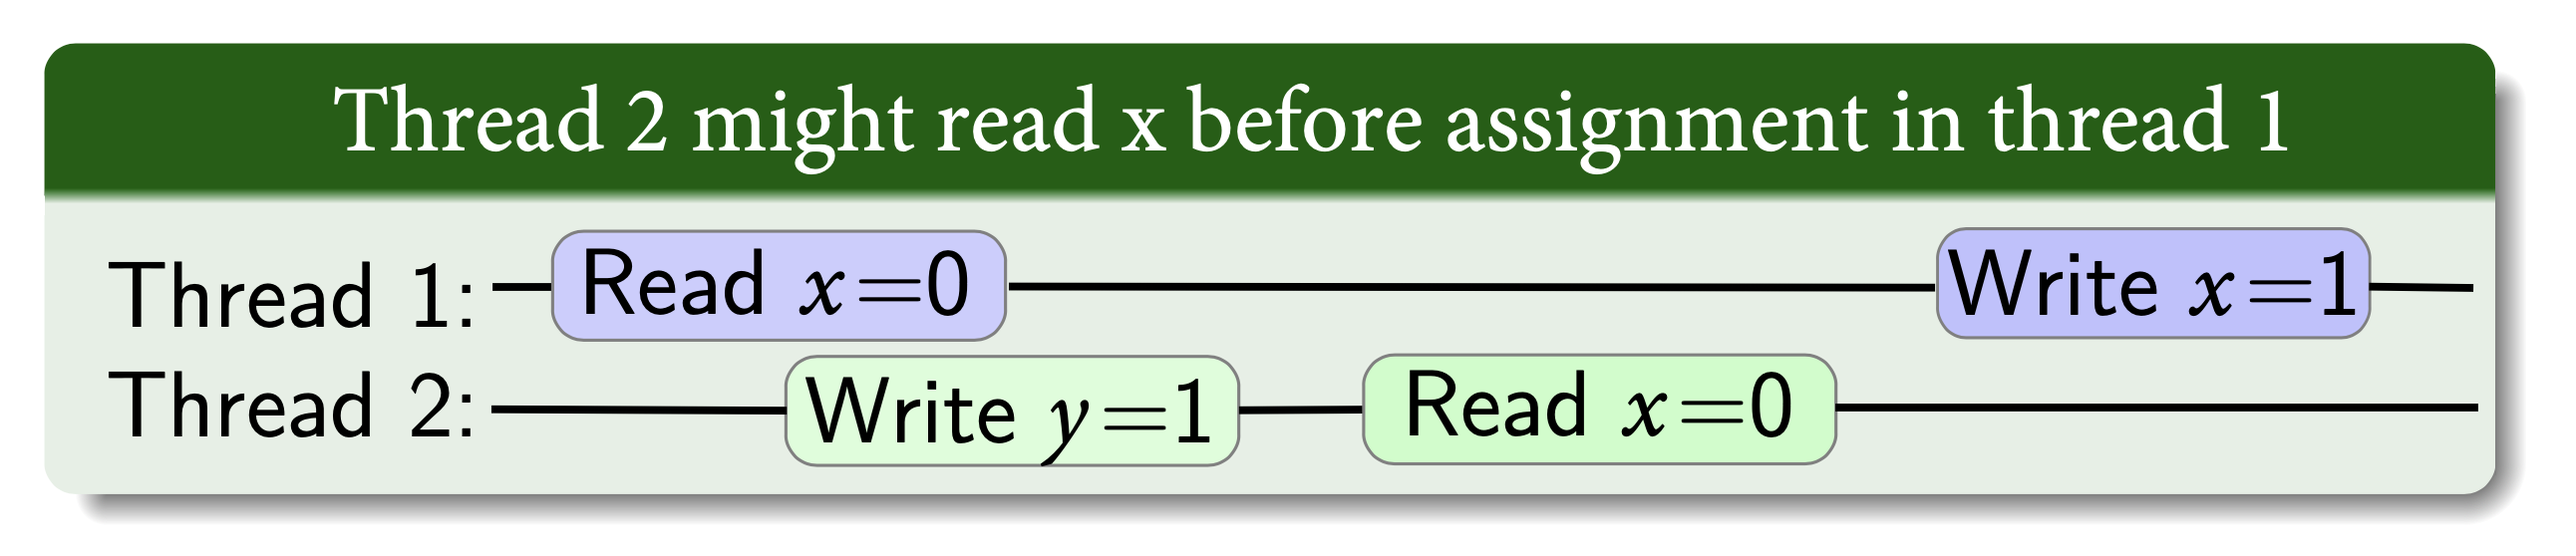
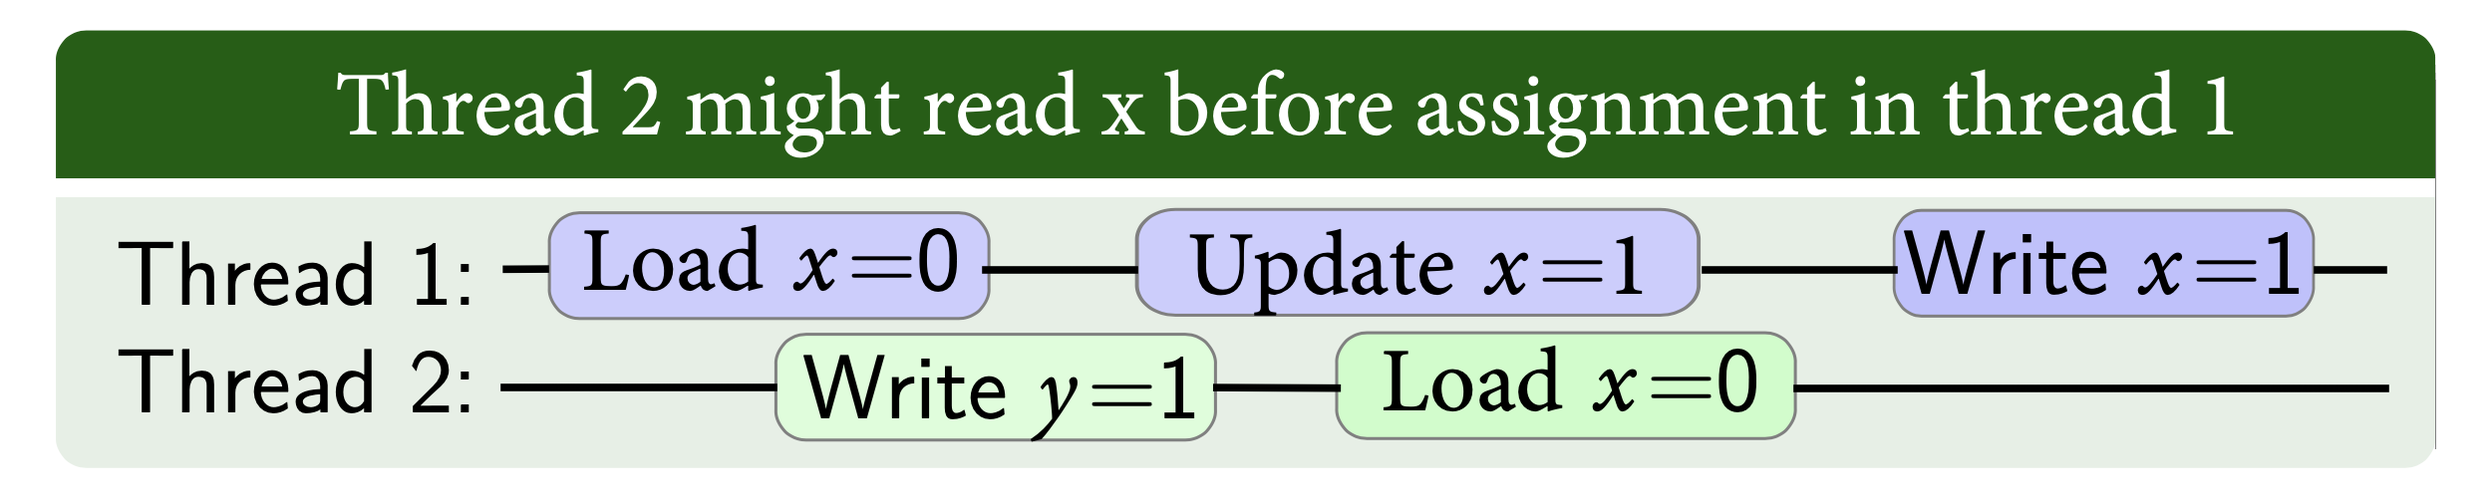
Update threads

diff --git a/Week 15/README.md b/Week 15/README.md
@@ -37,13 +37,14 @@
 		T1: x = x + 1		|  T2: y = x
 		```
 		- What is the value of `y`? If thread `T1` goes first, then `y` will be `1`, but if `T2` executes first, then `y` does not change its value.
+		- This is a race condition caused by data races.
 	- Deadlock situation: it happend when a process or thread holds a resource and waits for another resource held by another waiting process. However, the waiting process state forevers because each requested resource is used by another process.
 		- For example:
 			<p align="center">
 			  <img src="img/deadlock.png" height="70%" width="70%">
 			</p>
 		- Picture from a lecture - [Concurrent Programming](https://github.com/nyu-pl-fa18/class14/blob/master/class14.pdf).
-	- Weak memory consistency: the behaviours of accessing memory through multiple processes / threads might be inconsistent. That is, the programmers are responsible for maintaining consistency by using synchronization techniques.
+	- Weak memory consistency: the behaviours of accessing memory through multiple processes / threads might be inconsistent. The reason might be the optimization of code scheduling or delaying updates of memory.
 	- Consider this example, suppose we have two threads share variables `x` and `y`:
 	```python
 	# Suppose variable x and y are initialized to 0.
@@ -56,6 +57,7 @@
 			<p align="center">
 			  <img src="img/weak.png" height="70%" width="70%">
 			</p>
+			- The compiler might avoid updating `x` in `T1` because memory access is expensive. Although `x` could be maintained inside a register, the update of `x` may delay after `T2` loading `x` from the memory.
 - Mutual exclusion
 	- Critical region or section: a resource, memory or variable that only allows one thread to access at a time.
 	- Def. it is a situation that one process / thread enters a critical region or section and excludes all other processes / threads until that process / thread is finished.
@@ -72,7 +74,7 @@
 		- Task type
 		- A Ada task type is very close to Java `Thread` subclass.
 - Rendezvous
-	- Def. A rendezvous is a process to synchronize two tasks.
+	- Def. a rendezvous is a process to synchronize two tasks.
 	- It works by using `entry` and `accept` statements. The communication from task to task via an `entry` call.
 
 ### Example
@@ -140,7 +142,7 @@ end Main;
 ```
 
 ## Java
-
+- Thread
 ```java
 class MyThread extends Thread {
    public int element;
@@ -168,35 +170,72 @@ public class HelloWorld{
    }
 }
 ```
-
+- Prevents race condition
+- Java introduced two ways to maintain synchronization:
+	- Synchronized methods
+		- Declare a synchronized method that only allows one thread per instance execute it.
+	- For instance, consider we use multiple threads to count a result and check whether that result is a multiple of 10.
+	```java
+	class SyncCounter {
+	    private int count = 0;
+	    
+	    public synchronized void cal(){
+	       for(int i=0; i<10000; i++){
+	           count += 1;
+	        }
+	        System.out.println(this.count % 10 == 0); // Might be false if we avoid synchronizzation
+	   }
+	}
+	
+	class CounterThread extends Thread {
+	   private SyncCounter counter;
+	
+	   public CounterThread (SyncCounter counter){
+	      this.counter = counter;
+	   }
+	
+	   public void run () {
+	       counter.cal();
+	   }
+	}
+	
+	public class Main
+	{
+	     public static void main(String []args){
+	        SyncCounter counter = new SyncCounter();
+	        CounterThread t1 = new CounterThread (counter);
+	        CounterThread t2 = new CounterThread (counter);
+	        t1.start ();
+	        t2.start();
+	     }
+	}
+	```
+	- Synchronized statements
+	- This block allows you to synchronize codes by specifying an object
+	- For intance, the above `cal` method could be revised as:
+	```java
+	public  void cal(){
+		synchronized(this){
+			for(int i=0; i<10000; i++){
+       		count += 1;
+        	}
+        	System.out.println(this.count % 10 == 0); // Might be false if we avoid synchronizzation
+    	}
+   }
+	```
 ## Python (Option)
 - [Future and Promise](https://en.wikipedia.org/wiki/Futures_and_promises#List_of_concepts_related_to_futures_and_promises_by_programming_language)
 	- Future: it is a read-only placeholder object for a value may not yet exist.
 	- Promise: it is a writable, single assignment container which sets the value of the future (i.e. to make a future complete).
 	- In other words, if you promise something, you expect to achieve it in the future.
-	- Note that, the concept of a future/promise is not restricted to multithreading (like C++).
-	- For instance, in Javascript (Python), future and promise is used to asynchronize I/O:
-	```js
-	...
-	/*
-	A simple client code implemented by using AngularJS.
-	In JavaScript, we don't talk about "future" :(
-	*/
-	var deferred = $q.defer(); // Create a deferred object, it contains a promise object
-	$http.post(ServerURLs.events,newEvent)
-      .success(function(return_id){
-        console.log("Event added successfully");
-        newActivity.id = return_id;
-        syncEventToLocal(newEvent);
-        deferred.resolve(newEvent.id); // Resolved the promise, return your defined promise with return value
-      })
-      .error(function(errorMessage){
-        console.log("Failure to add this new event");
-        deferred.reject(errorMessage); // Reject the promise, raise an exception to report this error
-      });
-   ...
+	- In programming langauges, the future may be a value, and the promise is the function that sets the value.
 	```
-	- However, in Python (after Python 3.5), we can use [async IO](https://realpython.com/async-io-python/). This package allows us to implement asynchronous process by using a single thread.
+	async fun promise(){
+		return future
+	}
+	```
+	- Note that, the concept of a future/promise is not restricted to multithreading (like C++).
+	- For example, in Python (after Python 3.5), we can use [async IO](https://realpython.com/async-io-python/). This package allows us to implement asynchronous process by using a single thread.
 		- Coroutine: it is a function that can suspend its execution before reaching return, and it can indirectly pass control to another coroutine for some time. That is, a function allows you to switch execution.
 		- For example, consider the following code (example and picture from Python 3.5 [manual](https://docs.python.org/3.5/library/asyncio-task.html)):
 		```python
